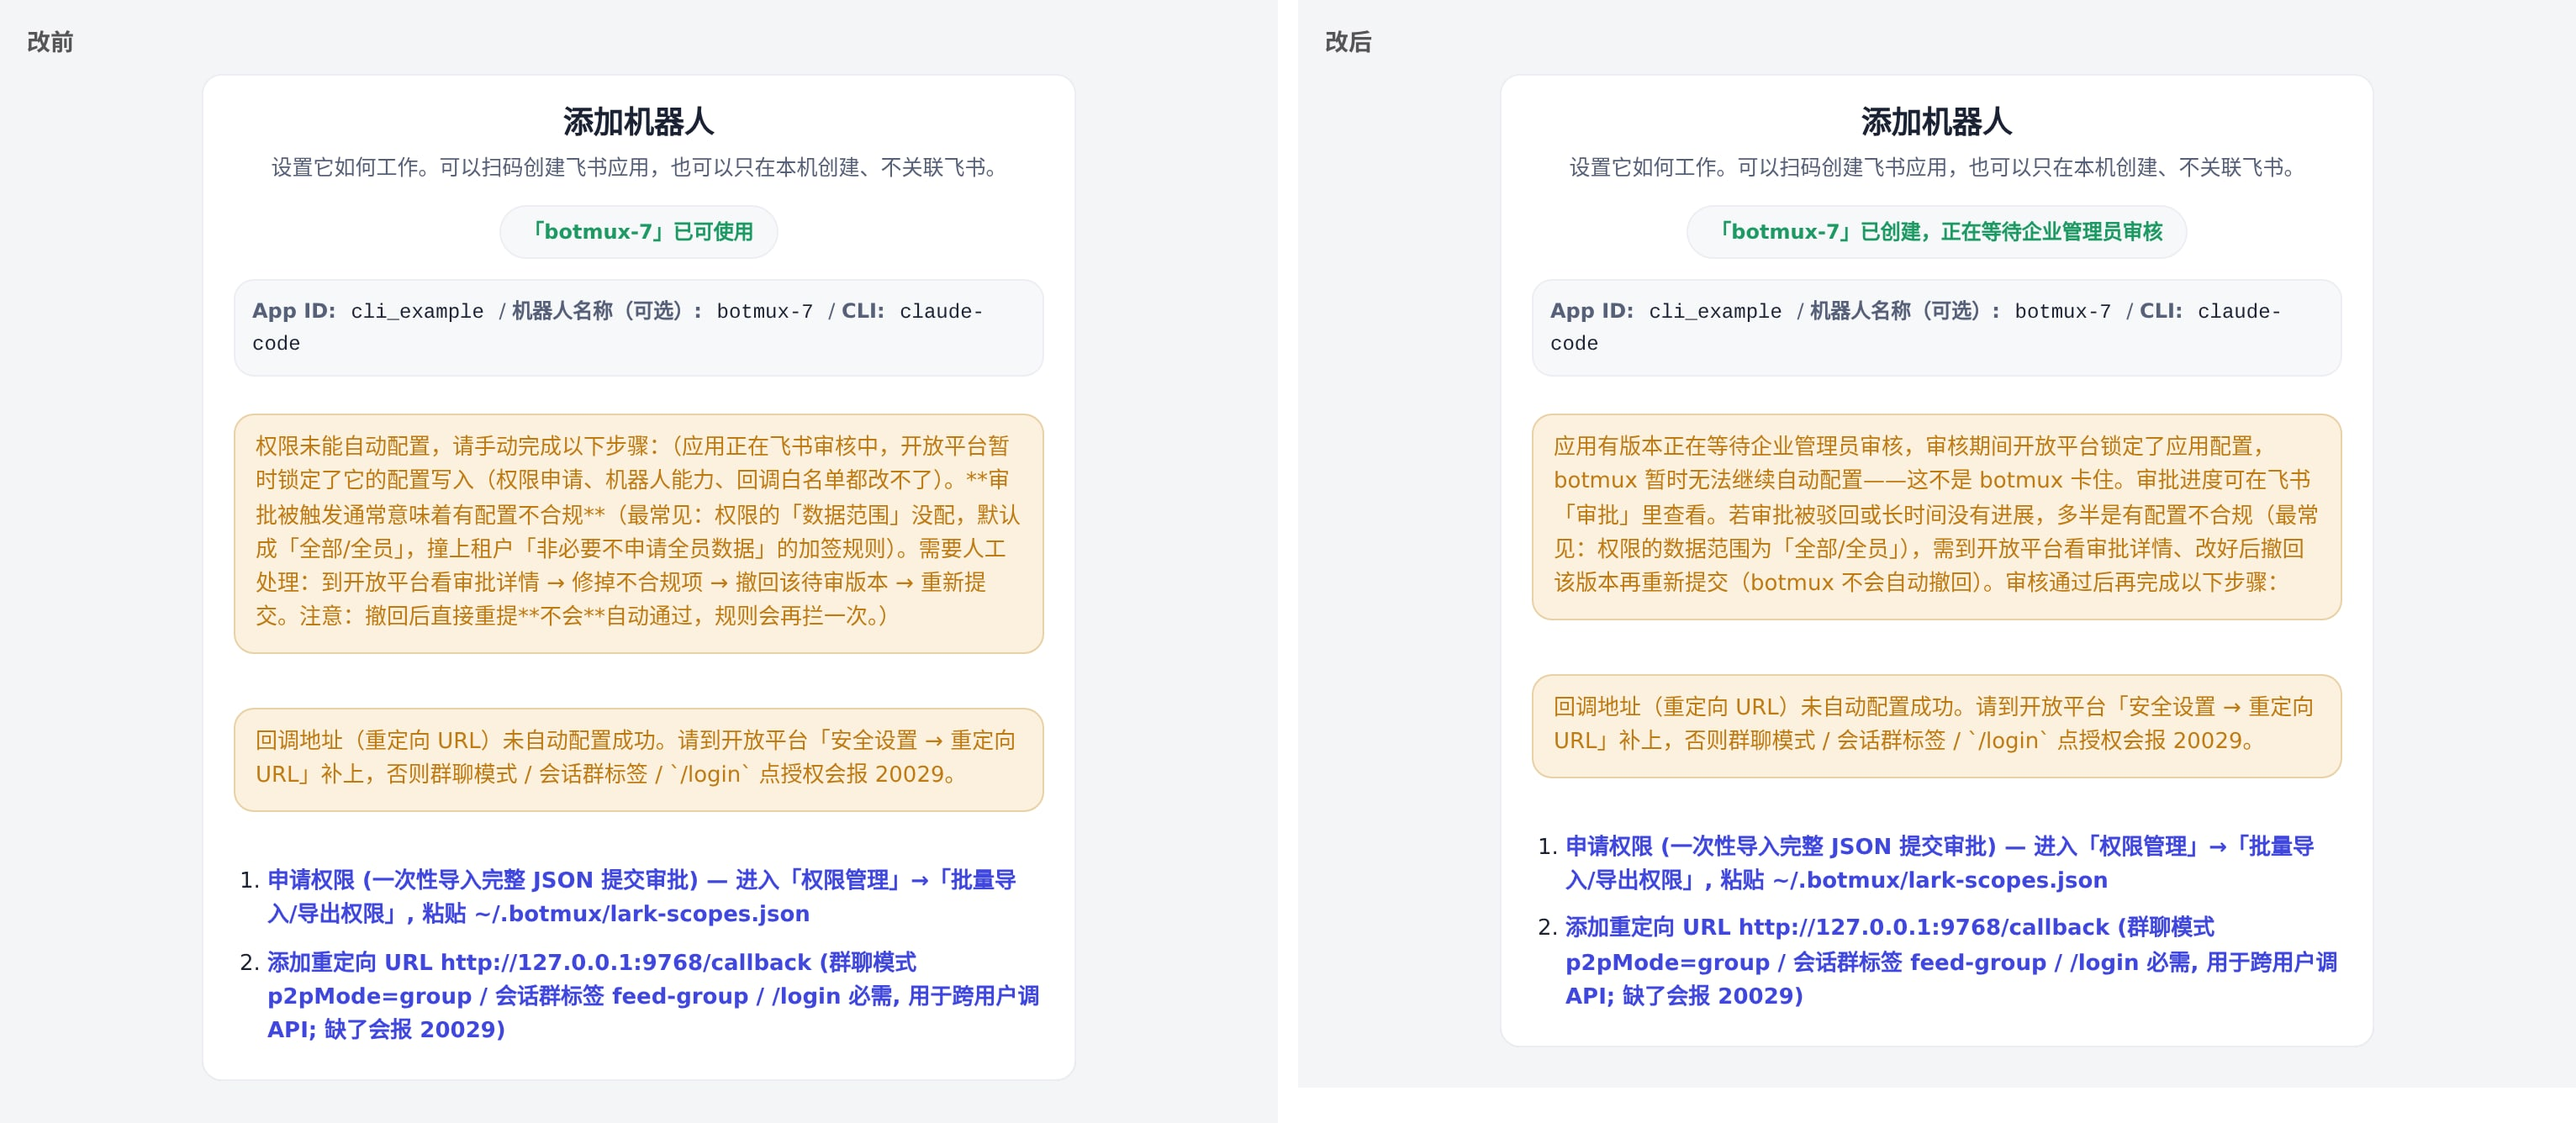
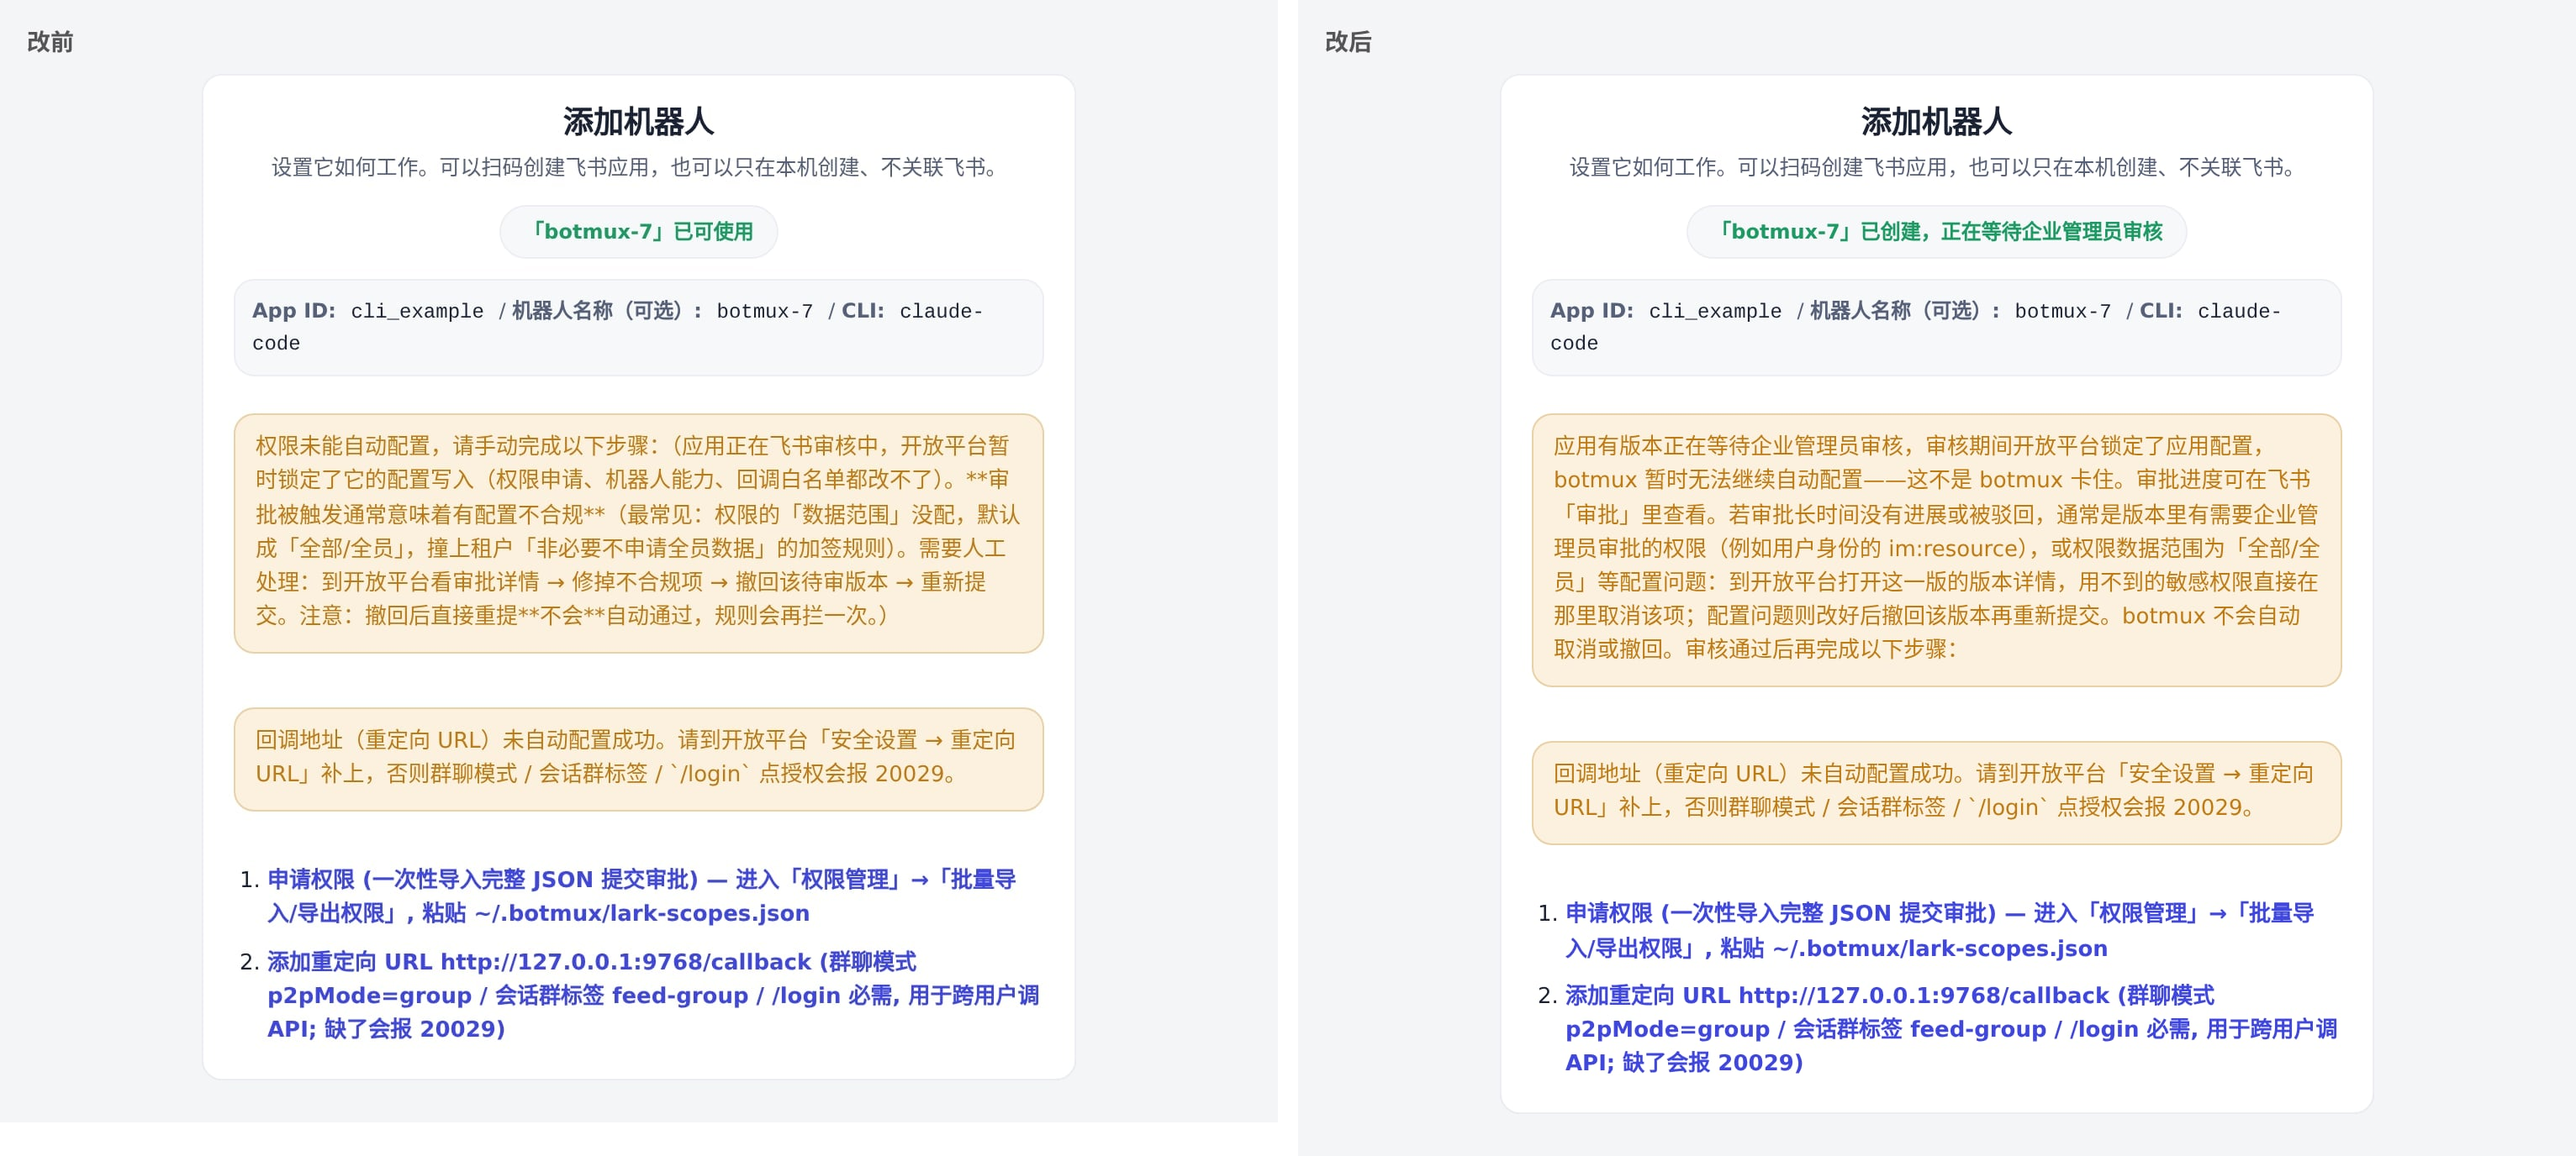
fix(review): 审核卡住时指向需企业管理员审批的敏感权限，可在版本详情取消
实测：一个待审版本取消用户身份的 im:resource 后随即通过；另一卡审 3 个多月的版本
新增的是应用身份敏感权限。提示改为「通常是版本里有需企业管理员审批的权限（可在版本
详情里取消），或数据范围等配置问题（改好后撤回重提）」。

diff --git a/src/im/lark/event-dispatcher.ts b/src/im/lark/event-dispatcher.ts
@@ -489,8 +489,9 @@ async function tryWebAutoFixScopes(
             ? `新版本 ${result.pendingReviewAppVersion ?? result.versionId ?? ''} 已提交，正在**等待企业管理员审核**`
               + `${result.approvalHumanApprovers?.length ? `（审批人：${result.approvalHumanApprovers.join('、')}）` : ''}，`
               + '通过后权限才生效——不用重复提交，审批进度可在飞书「审批」里查看。'
-              + '若审批被驳回或长时间没有进展，多半是有配置不合规（最常见：权限的数据范围为「全部/全员」），'
-              + '需到开放平台看审批详情、改好后撤回该版本再重新提交（botmux 不会自动撤回）。'
+              + '若审批长时间没有进展或被驳回，通常是版本里有需要企业管理员审批的权限（例如用户身份的 `im:resource`），'
+              + '或权限数据范围为「全部/全员」等配置问题：在开放平台这一版的版本详情里，用不到的敏感权限直接取消该项；'
+              + '配置问题则改好后撤回该版本再重新提交（botmux 不会自动取消或撤回）。'
           : result.approvalAutoPassed === true
             ? '新版本已提交，审批流**自动通过**，权限已即时生效。'
             : result.approvalHumanApprovers?.length
@@ -912,15 +913,15 @@ async function checkRequiredScopesOnce(larkAppId: string, isCurrent: () => boole
           `⏳ 机器人 "${bot.botName ?? larkAppId}" 还缺 ${missingCritical.length} 项必需权限，`
           + `而它有一个版本**卡在飞书审核中**，开放平台锁定了配置写入，botmux 补不了：\n\n`
           + `${missingCritical.map(s => `• ${s.desc} (\`${s.name}\`)`).join('\n')}\n\n`
-          + `审批进度可在飞书「审批」里查看。**如果审批被驳回或长时间没有进展**，通常说明有配置不合规，最常见是权限的「数据范围」`
-          + `没配、默认成「全部/全员」，撞上租户「非必要不申请全员数据，如申请全员范围需提供`
-          + `充分理由、视情况加签至 CEO-2」的规则。${rangeHint}\n\n`
-          + `**怎么修**（审批被驳回或长时间没有进展时，需要人工）：\n`
-          + `1. 开放平台 →「版本管理与发布」→ 点进审核中那一版的**版本详情**，看审批详情里被卡的项\n`
-          + `2. 修掉不合规项（如把权限的数据范围从「全部」改成「与应用的可用范围一致」）\n`
-          + `3. 在版本详情页点 **Withdraw** 撤回该版本\n`
+          + `审批进度可在飞书「审批」里查看。**如果审批长时间没有进展或被驳回**，通常是这一版里有需要企业管理员审批的权限`
+          + `（例如用户身份的 \`im:resource\`），或有配置不合规——最常见是权限的「数据范围」没配、默认成「全部/全员」，`
+          + `撞上租户「非必要不申请全员数据，如申请全员范围需提供充分理由、视情况加签至 CEO-2」的规则。${rangeHint}\n\n`
+          + `**怎么处理**（审批长时间没有进展或被驳回时，需要人工）：\n`
+          + `1. 开放平台 →「版本管理与发布」→ 点进审核中那一版的**版本详情**，看是哪一项需要审批\n`
+          + `2. 用不到的敏感权限：直接在版本详情里取消该项\n`
+          + `3. 配置不合规：修掉不合规项（如把权限的数据范围从「全部」改成「与应用的可用范围一致」），再点 **Withdraw** 撤回该版本\n`
           + `4. 执行 \`botmux restart\`，botmux 会自动补齐权限（本机没有可用登录态时改发权限确认链接）\n\n`
-          + `⚠ 直接撤回重提**不管用**：不改配置的话同一条规则会再拦一次。\n`
+          + `⚠ 不改配置直接撤回重提**不管用**：同一条规则会再拦一次。\n`
           + `⚠ 此时去权限管理页手动点开通也**无效**：审核期间飞书连「申请权限」都拒绝。`,
           `app under review, ${missingCritical.length} scopes deferred`,
         );

diff --git a/src/dashboard/web/i18n.ts b/src/dashboard/web/i18n.ts
@@ -255,8 +255,8 @@ const zh = {
   'botOnboarding.permissionReviewApprovers': '（审批人：{names}）',
   'botOnboarding.listSeparator': '、',
   'botOnboarding.permissionUnderReview': '应用有版本正在等待企业管理员审核，审核期间开放平台锁定了应用配置，botmux 暂时无法继续自动配置——这不是 botmux 卡住。审批进度可在飞书「审批」里查看。{stuckHint}审核通过后再完成以下步骤：',
-  // 审批是规则驱动的：卡住多半是配置不合规，撤回重提前得先改配置；botmux 自己从不撤回。
-  'botOnboarding.reviewStuckHint': '若审批被驳回或长时间没有进展，多半是有配置不合规（最常见：权限的数据范围为「全部/全员」），需到开放平台看审批详情、改好后撤回该版本再重新提交（botmux 不会自动撤回）。',
+  // 卡审核的实测成因：版本里带了需企业管理员审批的敏感权限（取消该项即通过），或数据范围等配置问题。
+  'botOnboarding.reviewStuckHint': '若审批长时间没有进展或被驳回，通常是版本里有需要企业管理员审批的权限（例如用户身份的 im:resource），或权限数据范围为「全部/全员」等配置问题：到开放平台打开这一版的版本详情，用不到的敏感权限直接在那里取消该项；配置问题则改好后撤回该版本再重新提交。botmux 不会自动取消或撤回。',
   // redirect 白名单没写上 ≠ 建 bot 失败，但一点授权就 20029，必须单独说出来。
   'botOnboarding.permissionRedirectWarn': '回调地址（重定向 URL）未自动配置成功：{reason}。请到开放平台「安全设置 → 重定向 URL」补上，否则群聊模式 / 会话群标签 / `/login` 点授权会报 20029。',
   'botOnboarding.permissionRedirectWarnNoReason': '回调地址（重定向 URL）未自动配置成功。请到开放平台「安全设置 → 重定向 URL」补上，否则群聊模式 / 会话群标签 / `/login` 点授权会报 20029。',
@@ -5225,7 +5225,7 @@ const en: Record<keyof typeof zh, string> = {
   'botOnboarding.permissionReviewApprovers': ' (approvers: {names})',
   'botOnboarding.listSeparator': ', ',
   'botOnboarding.permissionUnderReview': 'A version of this app is waiting for enterprise admin review. The Open Platform locks the app configuration during review, so botmux cannot continue configuring it automatically — botmux is not stuck. Track the review in Feishu Approval. {stuckHint} After approval, complete these steps:',
-  'botOnboarding.reviewStuckHint': 'If the review is rejected or makes no progress for a long time, some configuration is usually non-compliant (most often a permission data range set to "All"): check the review details on the Open Platform, fix it, then withdraw that version and resubmit (botmux never withdraws it automatically).',
+  'botOnboarding.reviewStuckHint': 'If the review stalls or is rejected, the version usually contains a permission that needs enterprise admin approval (for example the user-identity im:resource) or a configuration issue such as a data range set to "All". Open the details of that version on the Open Platform: cancel a sensitive permission you do not need right there; for a configuration issue, fix it, then withdraw the version and resubmit. botmux never cancels or withdraws anything automatically.',
   'botOnboarding.permissionRedirectWarn': 'The callback (redirect) URL was not configured automatically: {reason}. Add it under Security Settings → Redirect URL on the Open Platform, otherwise group session mode, session-group tags and `/login` will fail authorization with error 20029.',
   'botOnboarding.permissionRedirectWarnNoReason': 'The callback (redirect) URL was not configured automatically. Add it under Security Settings → Redirect URL on the Open Platform, otherwise group session mode, session-group tags and `/login` will fail authorization with error 20029.',
   'botOnboarding.metaDir': 'Dir',

diff --git a/src/dashboard.ts b/src/dashboard.ts
@@ -1883,12 +1883,13 @@ async function preflightVcMeetingBot(appId: string): Promise<{ ok: true } | { ok
         if (!scopeCheck.ok) {
           // 「应用正在审核中」时**手动也开不了**：审核期间开放平台锁定配置写入，连
           // scope/update 都拒（实测 code=10046）。给「请手动开通」这种做不到的建议
-          // 比不给更糟。审批可能正常排队等企业管理员处理，也可能因配置不合规被卡住，
-          // 两种情况都要说清：先看审批进度，被驳回/长期不动再人工修配置后撤回重提。
+          // 比不给更糟。审批可能正常排队等企业管理员处理，也可能被版本里需企业管理员审批的
+          // 敏感权限或配置不合规卡住：先看审批进度，长期不动再取消敏感权限或修配置后撤回重提。
           const advice = reason === 'app_under_review'
             ? '该应用有一个版本正在等待企业管理员审核，配置写入被锁（手动开通同样会被拒），审批进度可在飞书「审批」里查看，审核通过后再重试。'
-              + '若审批被驳回或长时间没有进展，多半是有配置不合规（最常见：权限的数据范围默认成「全部/全员」），'
-              + '需人工到开放平台看审批详情、修掉不合规项后撤回该版本重提，再重试。'
+              + '若审批长时间没有进展或被驳回，通常是版本里有需要企业管理员审批的权限（例如用户身份的 im:resource），'
+              + '或权限数据范围默认成「全部/全员」等配置问题：在开放平台这一版的版本详情里取消用不到的敏感权限，'
+              + '或修好配置后撤回该版本重提，再重试。'
             : '请手动开通后重试。';
           return {
             ok: false,

diff --git a/src/setup/open-platform-automation.ts b/src/setup/open-platform-automation.ts
@@ -1826,10 +1826,11 @@ export async function automateOpenPlatformSetup(
         ok: false,
         reason: 'app_under_review',
         message:
-          '应用正在飞书审核中，开放平台暂时锁定了它的配置写入（权限申请、机器人能力、回调白名单都改不了）。'
-          + '**审批被触发通常意味着有配置不合规**（最常见：权限的「数据范围」没配，默认成「全部/全员」，'
-          + '撞上租户「非必要不申请全员数据」的加签规则）。需要人工处理：到开放平台看审批详情 → 修掉不合规项 '
-          + '→ 撤回该待审版本 → 重新提交。注意：撤回后直接重提**不会**自动通过，规则会再拦一次。',
+          '应用有版本在企业管理员审核中，开放平台暂时锁定了它的配置写入（权限申请、机器人能力、回调白名单都改不了）。'
+          + '长时间没有进展或被驳回时，通常是版本里有**需要企业管理员审批的权限**（例如用户身份的 im:resource），'
+          + '或有**配置不合规**（最常见：权限的「数据范围」没配，默认成「全部/全员」，撞上租户「非必要不申请全员数据」的加签规则）。'
+          + '需要人工处理：到开放平台看这一版的版本详情 → 用不到的敏感权限直接取消该项；配置不合规则修掉后撤回该待审版本、'
+          + '再重新提交。注意：不改配置直接撤回重提**不会**自动通过，规则会再拦一次。',
         sessionFile,
         redirectConfigured,
         redirectWarning,
